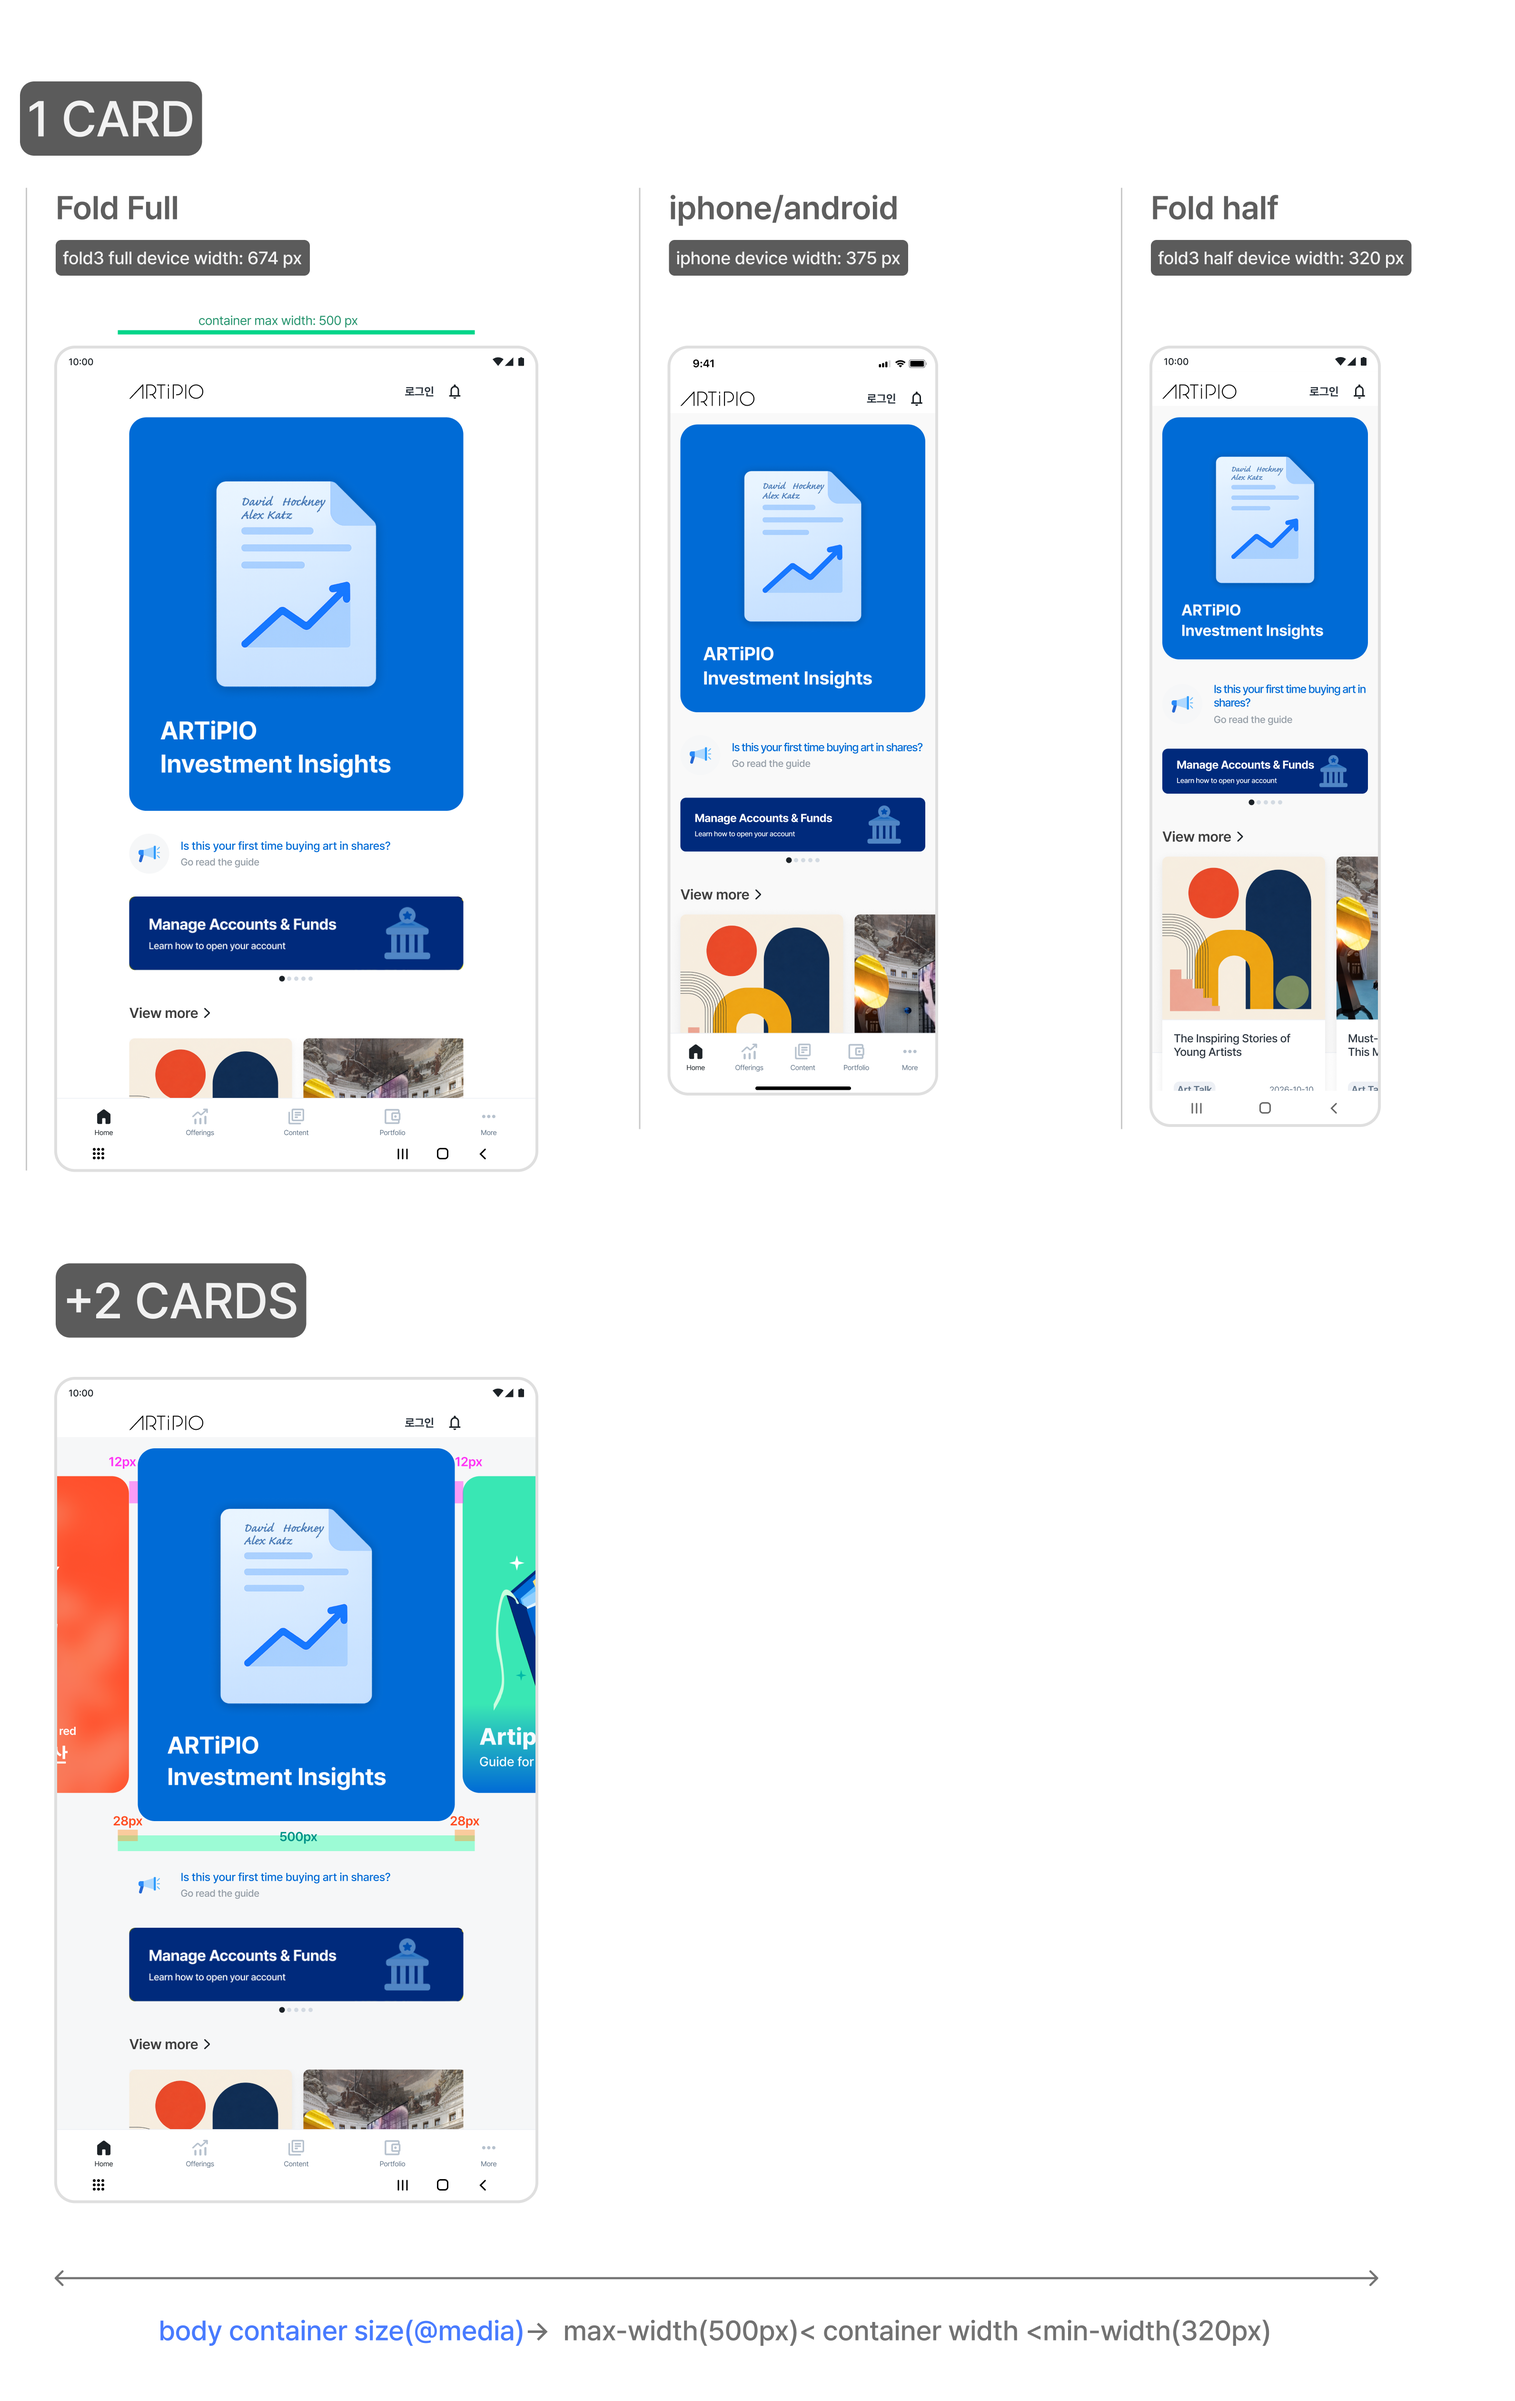
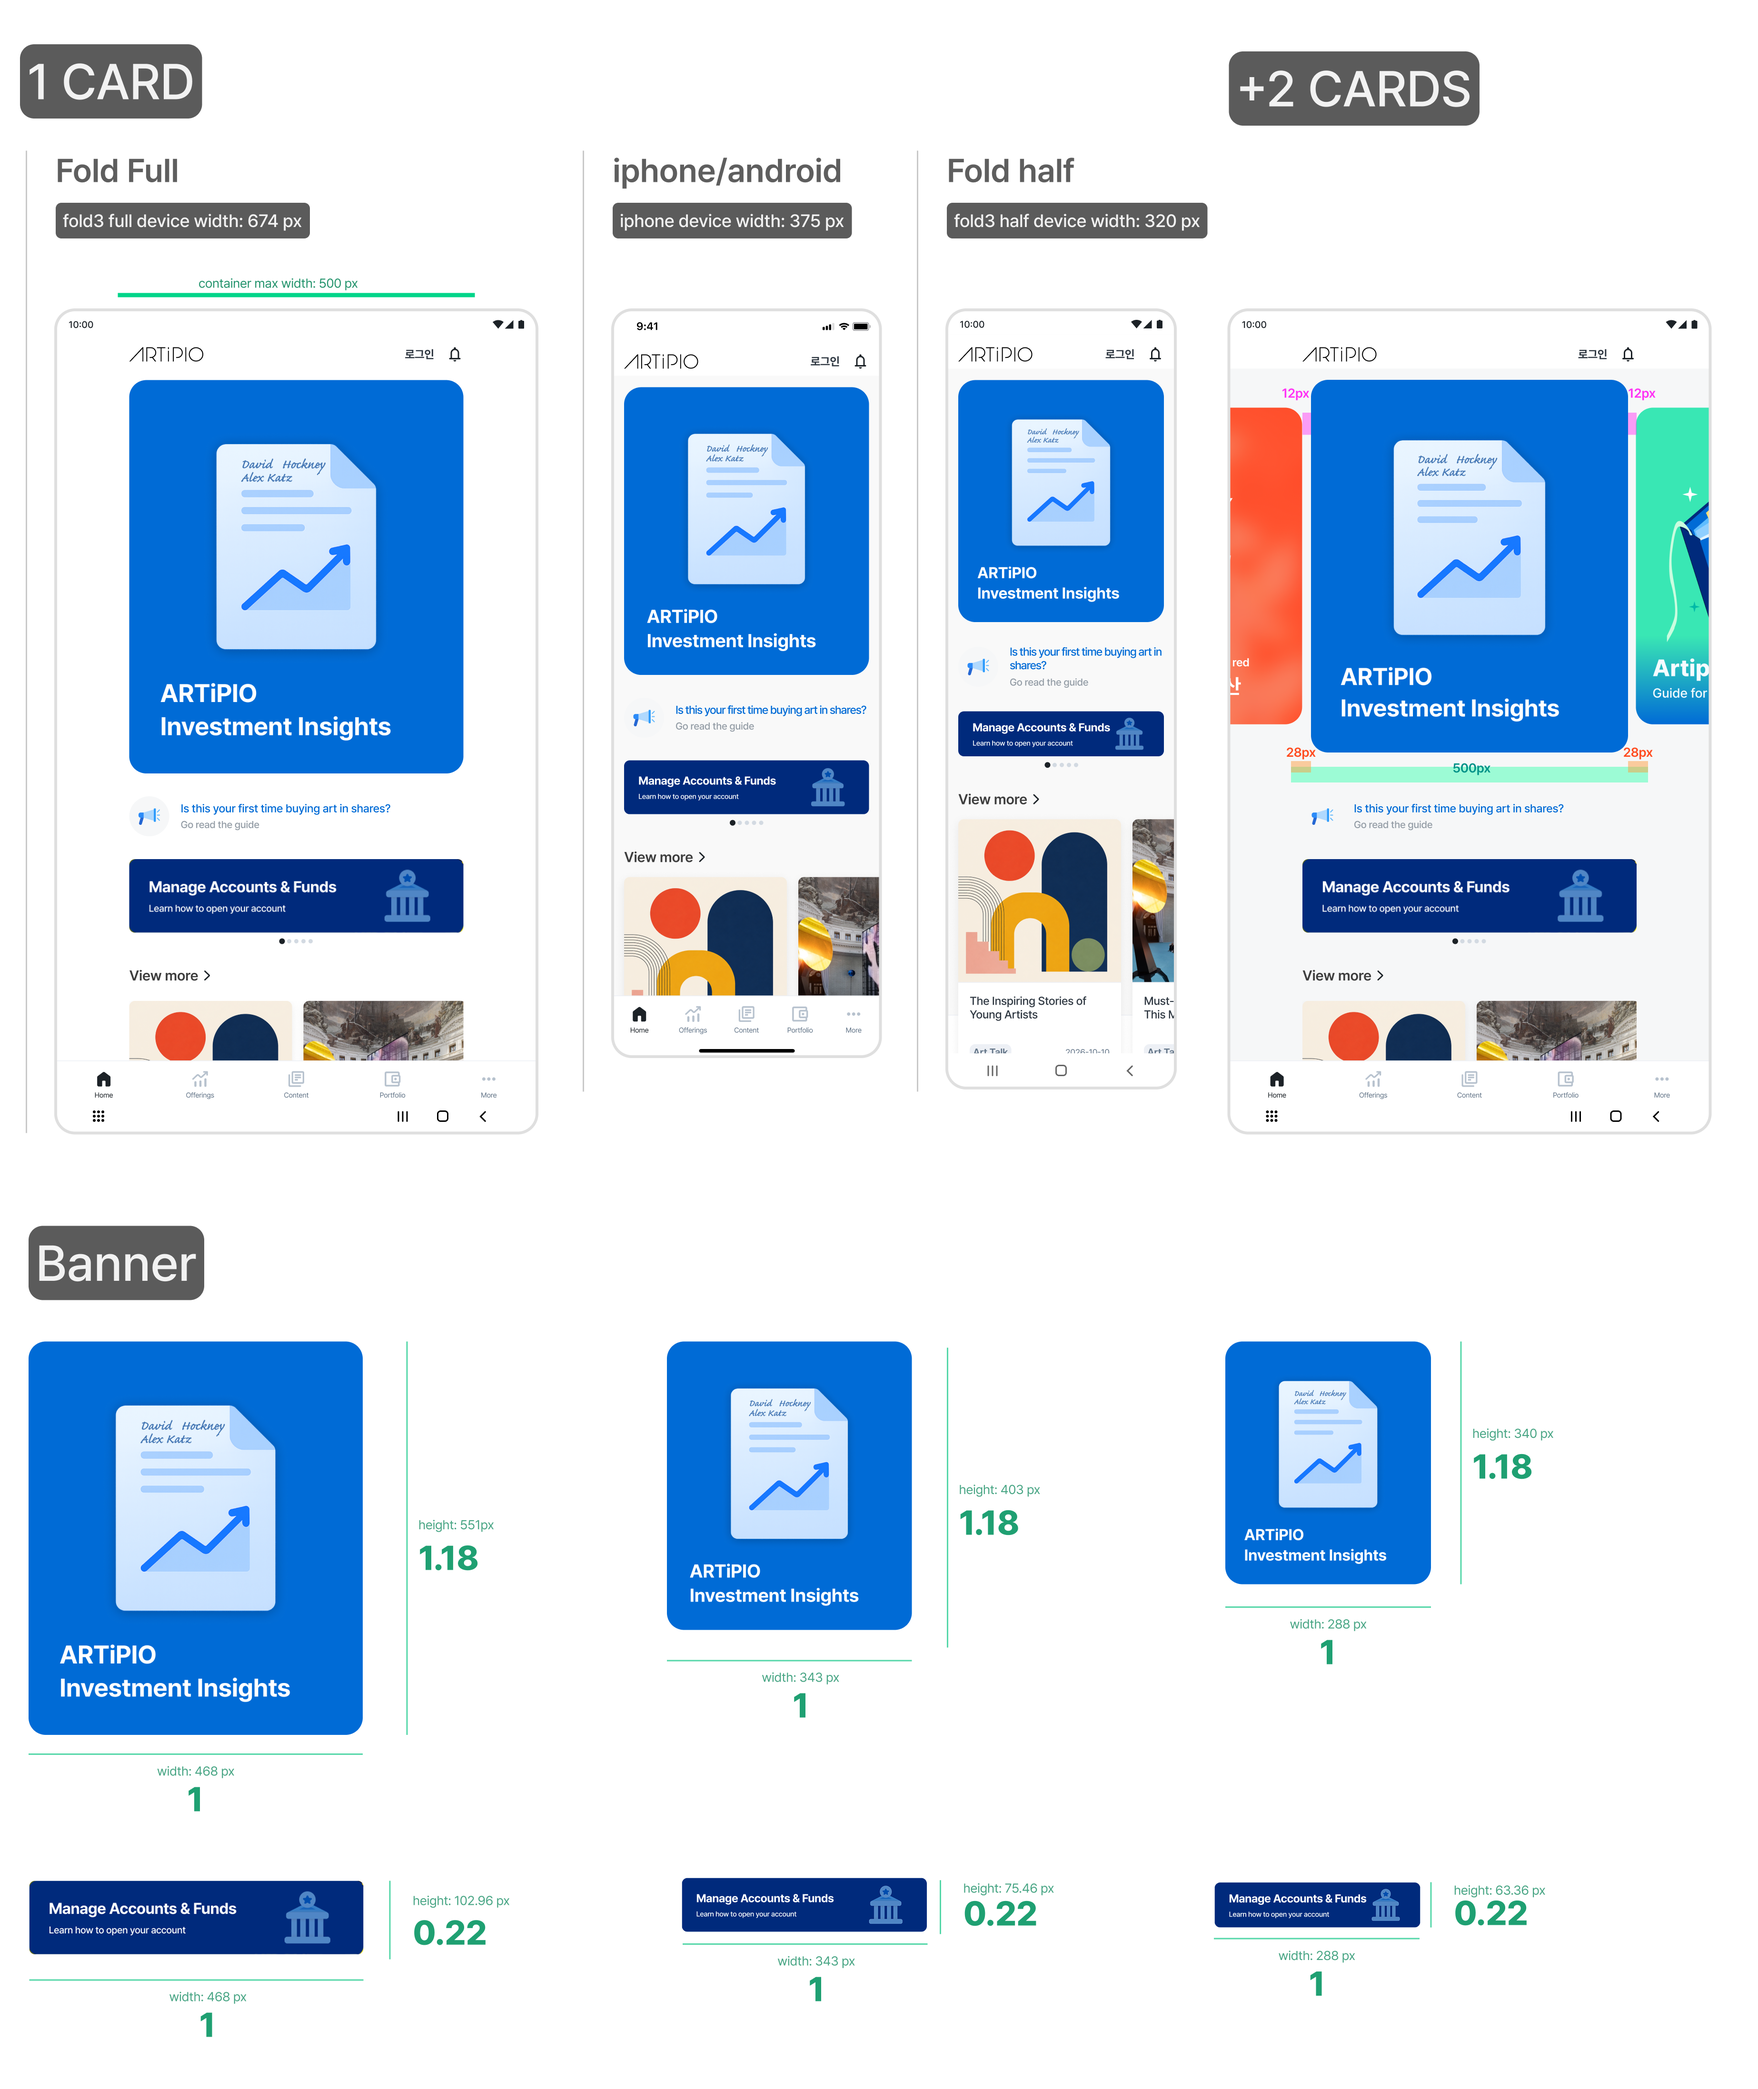
commit to main

diff --git a/artipio.html b/artipio.html
@@ -680,7 +680,7 @@
         </header>
 
         <div class="project-section__content">
-          <h2 class="type-project-title">Fluid<br />Layout</h2>
+          <h2 class="type-project-title">Fluid Layout</h2>
 
           <h3 class="type-body-bold text-primary">
             Flow of fluid aspect ratio scaling </h3>
@@ -705,9 +705,7 @@
                 <div class="detail-block">
                   <img src="./img/artipio_ratio system.png" alt="Fluid Aspect Ratio Scaling">
                 </div>
-                <div class="detail-block">
-                  <img src="./img/artipio_ratio system2.png" alt="Fluid Aspect Ratio Scaling">
-                </div>
+
               </div>
             </div>
           </div>
@@ -802,6 +800,38 @@
               <div class="media-detail__description">
                 <div class="detail-block">
                   <img src="./img/artipio_typography.png" alt="Fluid Aspect Ratio Scaling">
+                </div>
+
+              </div>
+            </div>
+
+
+          </div>
+
+          <h3 class="type-body-bold text-primary title-offset-40">
+            Button Components (Atom)</h3>
+
+          <div class="detail-content">
+            <!-- info -->
+            <div class="detail-block">
+
+
+              <p class="type-body text-secondary">
+                To maintain high code-reusability and strict design consistency, I established a foundational button
+                token system in alignment with Atomic Design principles, defining a systematic matrix that categorizes
+                buttons into 4 adaptive sizes (compact, Small, Medium, Large) and 6 distinct hierarchical variants
+                (Primary, Default, Dark, Line, Secondary, Accent). By collaborating closely with the engineering team
+                from the initial setup, these atomic components were mapped directly to engineering design tokens to
+                eliminate redundant code, safeguard the UI against layout breaking, and ensure seamless cross-functional
+                handoffs.
+            </div>
+
+            <!-- IA structure -->
+            <div class="media-detail__content">
+
+              <div class="media-detail__description">
+                <div class="detail-block">
+                  <img src="./img/artipio_btn.png" alt="Fluid Aspect Ratio Scaling">
                 </div>
 
               </div>

diff --git a/project.css b/project.css
@@ -3,7 +3,7 @@
 ======================================== */
 
 .project-detail {
-  --project-container-width: 1200px;
+  --project-container-width: 1080px;
   --project-section-label-width: 203px;
 }
 
@@ -97,7 +97,7 @@
 
   color: var(--color-text-primary, #1d1d1f);
   font-family: "Switzer", sans-serif;
-  font-size: 48px;
+  font-size: 32px;
   font-style: normal;
   font-weight: 700;
   line-height: 150%;
@@ -232,12 +232,28 @@
   grid-template-columns:
     var(--project-section-label-width)
     minmax(0, 1fr);
-  column-gap: 80px;
+  column-gap: 48px;
   align-items: start;
 
   margin-top: 100px;
   margin-bottom: 100px;
   scroll-margin-top: 96px;
+}
+
+.project-section.is-toc-target {
+  animation: toc-section-arrival 600ms cubic-bezier(0.22, 1, 0.36, 1);
+}
+
+@keyframes toc-section-arrival {
+  from {
+    opacity: 0.45;
+    transform: translateY(18px);
+  }
+
+  to {
+    opacity: 1;
+    transform: translateY(0);
+  }
 }
 
 .project-toc {
@@ -305,7 +321,7 @@
 
   color: #c8c8c8;
   font-family: var(--font-family-primary, "Switzer"), sans-serif;
-  font-size: 20px;
+  font-size: 16px;
   line-height: 1.35;
   text-decoration: none;
 
@@ -316,6 +332,10 @@
 .project-toc__link:focus-visible,
 .project-toc__link.is-active {
   color: var(--color-text-primary, #1d1d1f);
+}
+
+.project-toc__link.is-active {
+  font-weight: 700;
 }
 
 .project-section__header,
@@ -647,7 +667,7 @@
     grid-template-columns: 1fr;
   }
   .project-container {
-    width: calc(100% - 40px);
+    width: calc(100% - 24px);
   }
 
   .project-hero {
@@ -681,6 +701,12 @@
 
   .data-card-grid {
     grid-template-columns: 1fr;
+  }
+}
+
+@media (prefers-reduced-motion: reduce) {
+  .project-section.is-toc-target {
+    animation: none;
   }
 }
 

diff --git a/script.js b/script.js
@@ -113,6 +113,28 @@ if (projectSections.length > 0 && projectToc) {
 
   const projectTocLinks = projectToc.querySelectorAll(".project-toc__link");
 
+  projectTocLinks.forEach((link) => {
+    link.addEventListener("click", (event) => {
+      const targetId = link.getAttribute("href");
+      const targetSection = targetId ? document.querySelector(targetId) : null;
+
+      if (!targetSection) return;
+
+      event.preventDefault();
+      history.pushState(null, "", targetId);
+
+      targetSection.classList.remove("is-toc-target");
+      requestAnimationFrame(() => {
+        targetSection.classList.add("is-toc-target");
+      });
+
+      targetSection.scrollIntoView({
+        behavior: "smooth",
+        block: "start",
+      });
+    });
+  });
+
   const updateProjectToc = (activeSection) => {
     projectTocLinks.forEach((link) => {
       link.classList.toggle(
